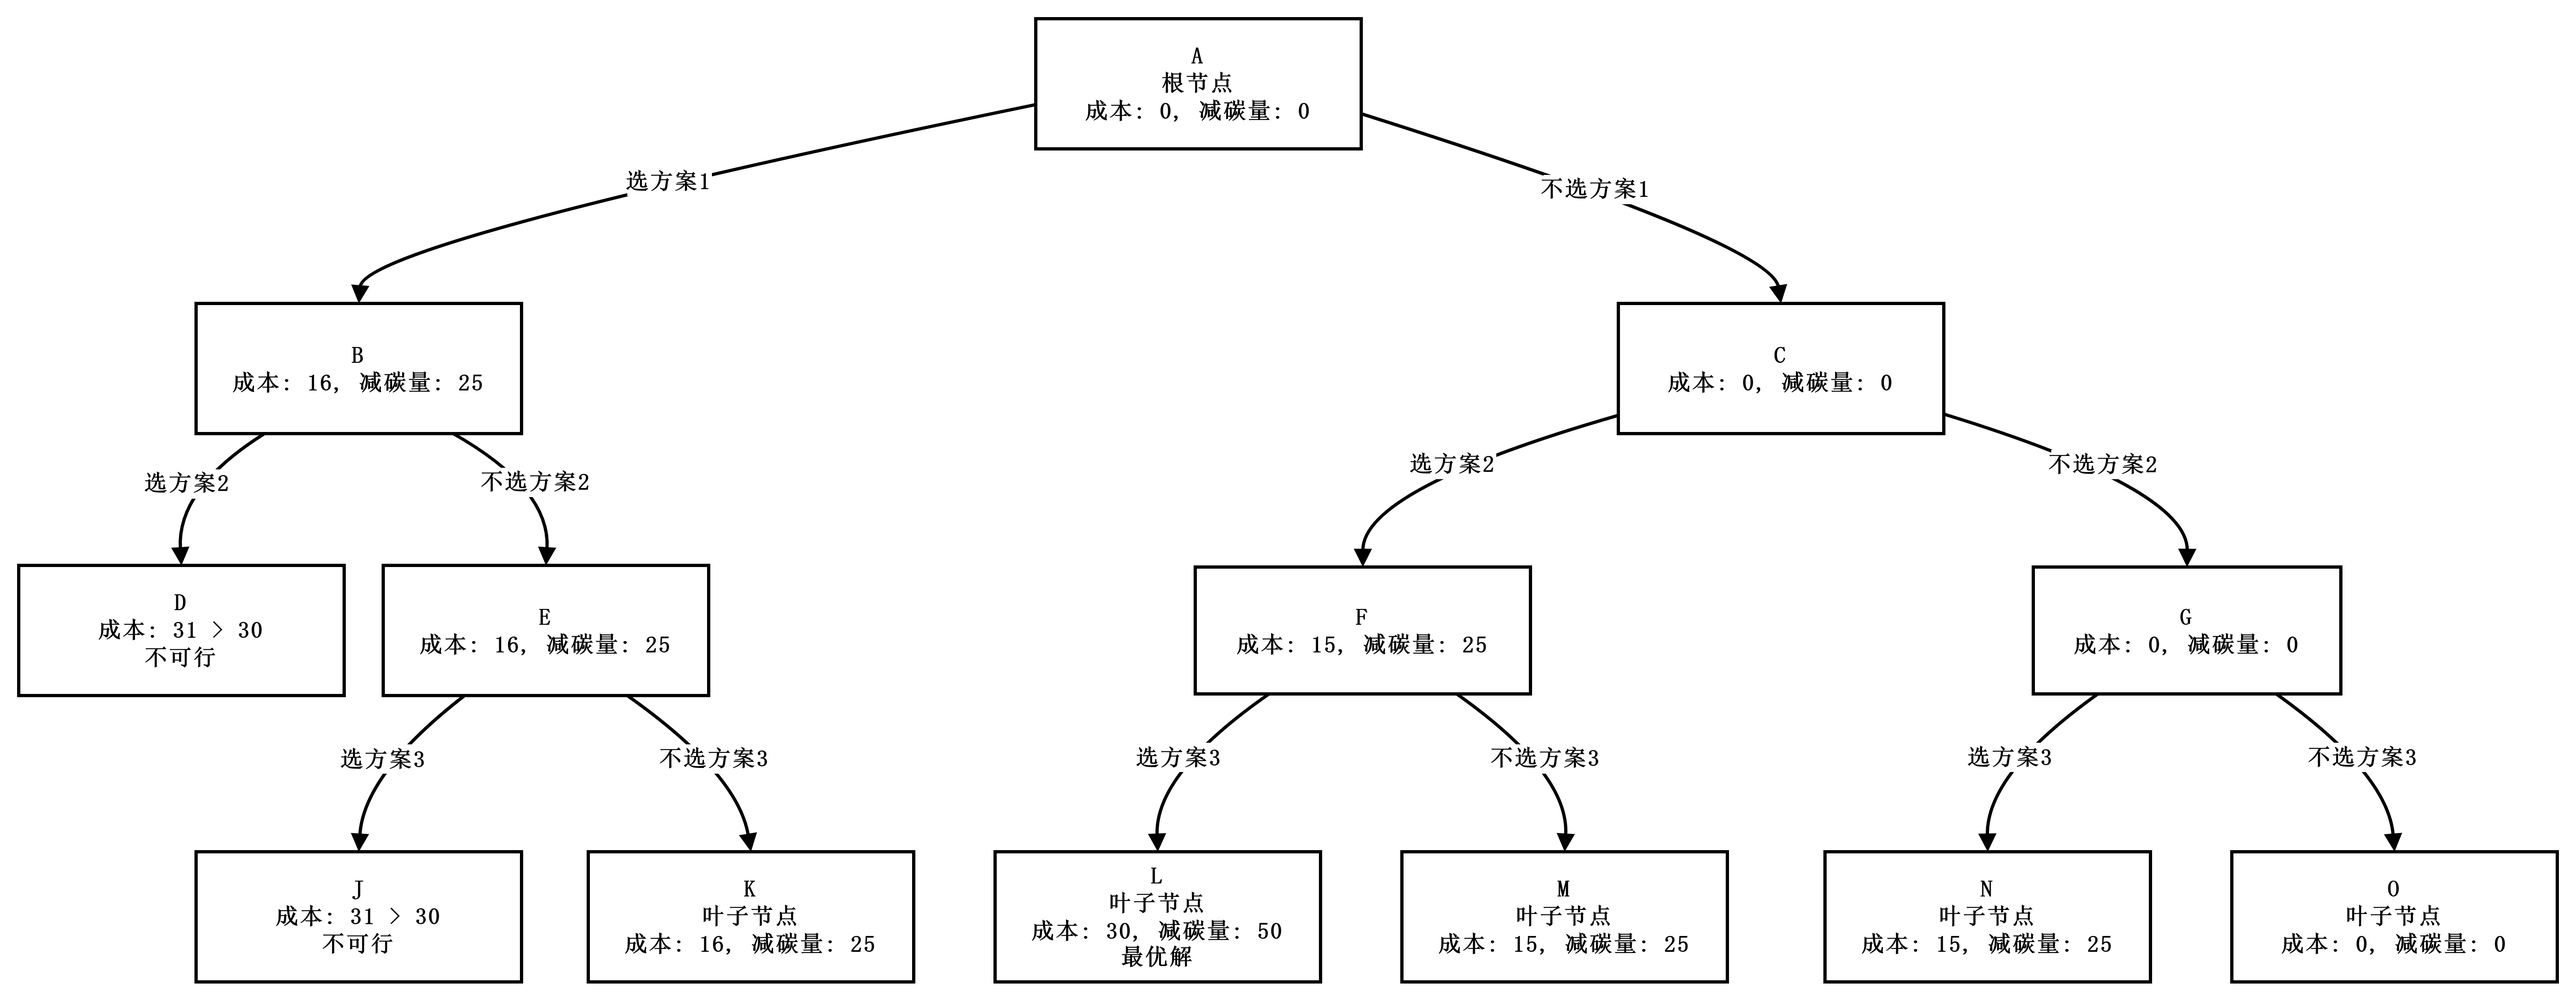
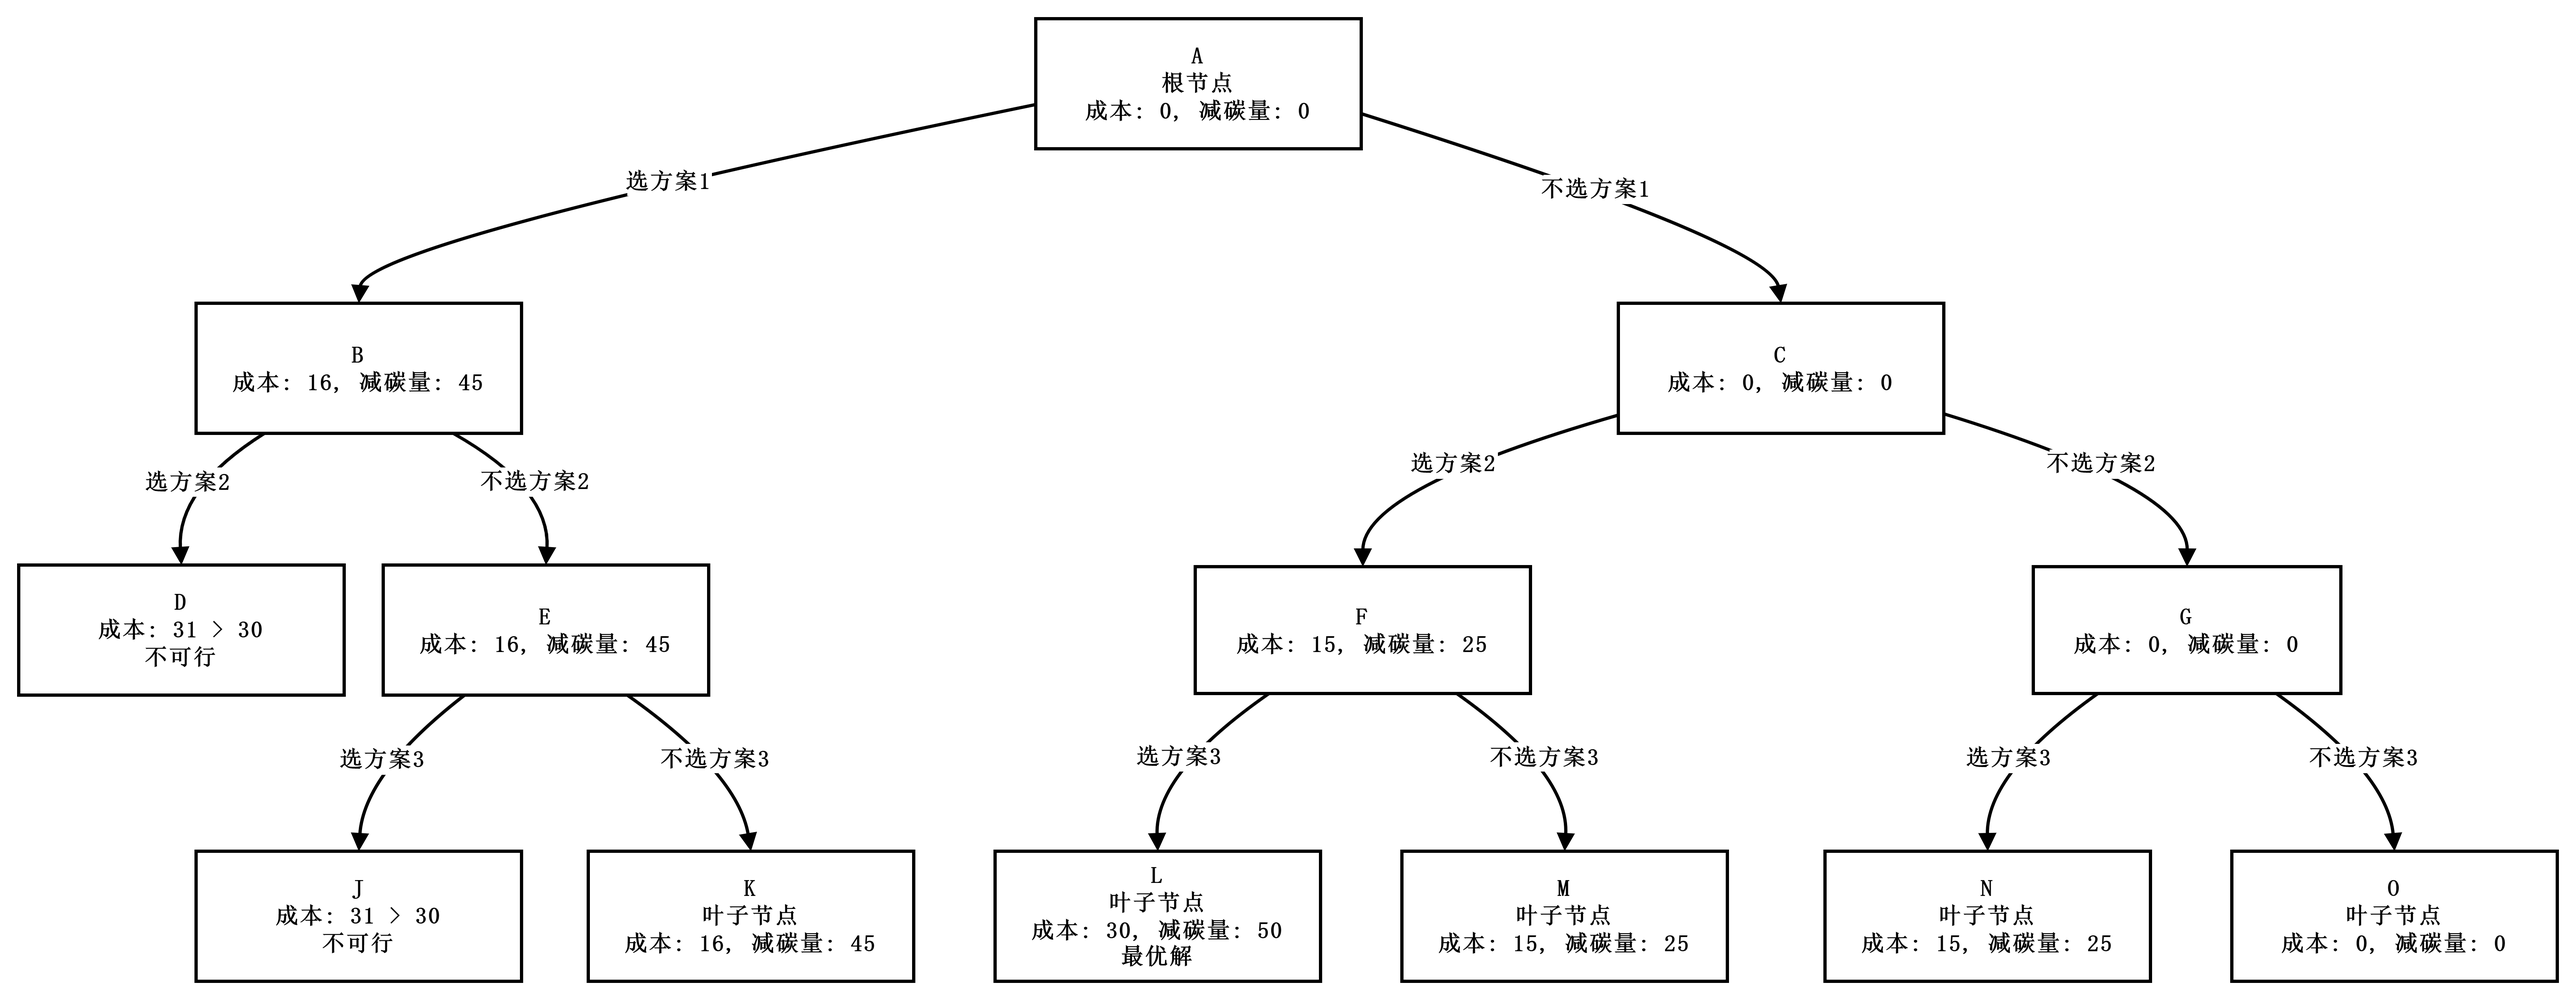
docs: 更新算法分析与设计考试笔记

diff --git a/docs/Exam/XASYU/Second/2025-07-01/00.算法分析与设计.md b/docs/Exam/XASYU/Second/2025-07-01/00.算法分析与设计.md
@@ -24,25 +24,25 @@
 
 ### 1.1
 
-> 分支限界与回溯法的区别？p.127
+> 分支限界法和回溯法的区别及相同点？
 
 求解目标不同：
 
-- 回溯法求所有解
-- 分支限界只能求一个解
+- 回溯法的求解目标是找出解空间树中满足约束条件的所有解
+- 分支限界法的求解目标是找出满足约束条件的一个解，或是在满足约束条件的解中找出在某种意义下的最优解
 
 搜索方式不同：
 
-- 回溯法使用深度优先
-- 分支限界使用广度优先或最小耗费优先（优先队列式分支限界）
+- 回溯法以深度优先的方式搜索解空间树
+- 分支限界法以广度优先或以最小耗费优先的方式搜索解空间树
 
 相同点：
 
-- 都要在解分支树上进行搜索，构造解空间树的过程是一样的
+- 均基于解空间树搜索；采用剪枝优化搜索效率。
 
 ### 1.2
 
-> 数学建模。p.128
+> 数学建模。
 
 1. **问题转化**：将环保投资问题建模为 0-1 背包问题模型。
 2. **变量定义**：$x_i \in \{0,1\}$ 表示是否投资第 $i$ 个方案（1=投资，0=不投资）。
@@ -54,12 +54,16 @@
 
 1. **构造解空间树**：三层二叉树（左分支=选方案，右分支=不选方案）。
 2. **搜索过程**：
-    - 扩展根节点 A → 生成 B（选方案 1，成本 16≤30）、C（不选方案 1，成本 0）。活结点表：[B, C]。
-    - 扩展 B → 生成 D（选方案 2，成本 16+15=31>30，不可行）、E（不选方案 2，成本 16）。活结点表：[C, E]。
-    - 扩展 C → 生成 F（选方案 2，成本 15）、G（不选方案 2，成本 0）。活结点表：[E, F, G]。
-    - 扩展 E → 生成 J（选方案 3，成本 16+15=31>30，不可行）、K（不选方案 3，成本 16）。K 为叶子节点，减碳量=45。活结点表：[F, G]。
-    - 扩展 F → 生成 L（选方案 3，成本 15+15=30）、M（不选方案 3，成本 15）。L 为叶子节点，减碳量=25+25=50。活结点表：[G, M]。
-    - 扩展 G → 生成 N（选方案 3，成本 15）、O（不选方案 3，成本 0）。N 减碳量=25，O 减碳量=0。
+
+    ```txt
+    [A] B, C        => B, C
+    [B, C] D, E     => E
+    [C, E] F, G     => F, G
+    [E, F, G] J, K  => K(45)[1,0,0]
+    [F, G] L, M     => L(50)[0,1,1], M(25)[0,1,0]
+    [G] N, O        => N(25)[0,0,1], O(0)[0,0,0]
+    ```
+
 3. **最优值（最大减碳量）**：50 万吨
 4. **最优解（最优方案组合）**：选方案 2 和方案 3，即 $x = [0,1,1]$
 
@@ -139,36 +143,22 @@ private static double Bound(int i) {
 
 > 贪心算法的原理是什么？
 
-贪心算法是一种通过每一步做出局部最优选择，以期望获得全局最优解的算法策略。其基本原理如下：
-
-1. **贪心选择性质**：算法在每一步中做出当前状态下看起来最优的选择，而不考虑全局。每次都选择当前最优解，期望最终能导致全局最优解。
-
-2. **最优子结构**：问题的最优解包含其子问题的最优解。这意味着每一步做出的局部最优选择最终能构成全局最优解。
-
-3. **无后效性**：一旦做出选择，不再回溯。贪心算法做出决策后不会重新考虑之前的选择。
-
-4. **迭代决策过程**：
-    - 将问题分解为若干个子问题
-    - 对每个子问题做出局部最优选择
-    - 将所有局部最优选择组合，形成最终解
-
-5. **构造方式**：通常通过某种度量标准（如价值、权重、距离等）对候选解进行排序，然后按此顺序选择满足约束条件的元素。
-
-贪心算法适用于能通过局部最优选择达到全局最优解的问题，但并非所有问题都适合使用贪心策略。与动态规划相比，贪心算法更高效（时间复杂度通常较低），但求解范围更窄。
+- 贪心算法是一种通过局部最优选择来构建全局最优解的算法。
+- 它依赖于贪心选择性质和最优子结构，即每一步都选择当前最优，期望最终得到全局最优解，且无需回溯。
 
 > 哈夫曼编码原理是什么？
 
-1. **变长编码：** 哈夫曼编码是一种变长编码方式。出现频率高的字符分配较短的编码，出现频率低的字符分配较长的编码。
+1. **变长编码**：哈夫曼编码是一种变长编码方式。出现频率高的字符分配较短的编码，出现频率低的字符分配较长的编码。
 
-2. **频率排序：** 首先将字符按照出现频率从小到大排序。
+2. **频率排序**：首先将字符按照出现频率从小到大排序。
 
-3. **构造哈夫曼树：**
+3. **构造哈夫曼树**：
     - 每次选取频率最小的两个节点。
     - 创建一个父节点，其频率等于这两个子节点频率之和。
     - 将该父节点按照频率大小重新插入到排序好的节点队列中。
     - 重复以上步骤，直到队列中只剩下一个节点，这个节点就是哈夫曼树的根节点。
 
-4. **编码：** 在哈夫曼树上，从根节点开始，对左分支编码为“0”，对右分支编码为“1”，直到到达叶子节点（代表一个字符），路径上的 0 和 1 组成的字符串就是该字符的哈夫曼编码。
+4. **编码**：在哈夫曼树上，左分支编 `0` 右分支编 `1`，直到到达叶子节点，路径上的 `0` 和 `1` 组成的字符串就是该字符的哈夫曼编码。
 
 > 定长编码的原理是什么？
 
@@ -185,23 +175,27 @@ private static double Bound(int i) {
 
 > 构造哈夫曼树及编码，写出具体的构造过程，写出每种垃圾名称的具体编码。
 
-1. **构造过程**：
-    - 初始节点：其他 (10%)、有害 (15%)、厨余 (30%)、可回收 (45%)。
-    - 合并其他 (10%) + 有害 (15%) → 节点 A(25%)。
-    - 合并 A(25%) + 厨余 (30%) → 节点 B(55%)。
-    - 合并 B(55%) + 可回收 (45%) → 根节点 (100%)。
+垃圾类型由小到大排序：
 
-    ![](./assets/010.png)
+| 4        | 3        | 2        | 1          |
+| -------- | -------- | -------- | ---------- |
+| 其他垃圾 | 有害垃圾 | 厨余垃圾 | 可回收垃圾 |
+| 10%      | 15%      | 30%      | 45%        |
 
-2. **编码结果**：
-    - 可回收物：`0`
-    - 厨余垃圾：`11`
-    - 有害垃圾：`101`
-    - 其他垃圾：`100`
+构造哈夫曼树：
+
+![](./assets/010.png)
+
+根据哈夫曼树可得：
+
+- 可回收物：`0`
+- 厨余垃圾：`11`
+- 有害垃圾：`101`
+- 其他垃圾：`100`
 
 ### 2.3
 
-**编码长度与节省比例计算**
+> 编码长度与节省比例计算
 
 1. **定长编码**：
     - 4 种类型需 2 位二进制（$2^2=4$），总码长 = $2 \times 10000 = 20000$ 位（假设处理 1 万次）。
@@ -229,55 +223,43 @@ private static double Bound(int i) {
 
 ### 3.1
 
-> 动态规划的原理是什么？p.41
+> 动态规划求解最短路径步骤
 
-1. 找出最优解的性质并描绘其结构特征（建立状态转移方程）。
-2. 递归的定义最优值，用递归的思想填表。
-3. 以自底向上的方式去计算最优值，构造最优解。
+1. 找出最优解的性质，并描绘其结构特征。
+2. 递归的定义最优值。
+3. 以自底向上的方式计算出最优值，构造最优解。
+
+### 3.2
 
 > 建立状态转移方程
 
 1. **定义**：
-    - $f[s]$：从节点 1 到节点 $s$ 的最短距离
-    - $p[s]$：节点 $s$ 的前驱节点
     - $s$：当前节点
     - $x$：节点 $s$ 的前驱节点
     - $c(x, s)$：$x$ 到 $s$ 的边
 2. **转移方程分段函数**：
-
     $$
-    f[s] =
+    f(s) =
     \begin{cases}
     0 & \text{若 } s = 1 & \text{(起点)} \\
-    \min \big\{ f[x] + c(x, s) \big\} & \text{若 } s \neq 1 & \text{(其他节点)}
+    \min \big\{ f(x) + c(x, s) \big\} & \text{若 } s \neq 1 & \text{(其他节点)}
     \end{cases}
     $$
 
-### 3.2
+> 填表计算最优值
 
-**填表计算最优值**
+- $f[i]$：从节点 1 到节点 $i$ 的最短距离
+- $p[i]$：节点 $i$ 的前驱节点
 
-| 节点 | $f[s]$ | $p[s]$ | 计算过程                                         |
-| ---- | ---------- | ---------- | ------------------------------------------------ |
-| 1    | 0          | -          | 边界                                             |
-| 2    | 4          | 1          | $f[1] + 4$                                   |
-| 3    | 2          | 1          | $f[1] + 2$                                   |
-| 4    | 3          | 1          | $f[1] + 3$                                   |
-| 5    | 8          | 3          | $\min(f[2]+10=14, f[3]+6=8) \to 8$             |
-| 6    | 6          | 4          | $\min(f[2]+9=13, f[3]+7=9, f[4]+3=6) \to 6$    |
-| 7    | 11         | 4          | $\min(f[3]+10=12, f[4]+8=11) \to 11$           |
-| 8    | 12         | 7          | $\min(f[5]+4=12, f[6]+9=15, f[7]+5=16) \to 12$ |
-| 9    | 12         | 6          | $\min(f[5]+8=16, f[6]+6=12, f[7]+4=15) \to 12$ |
-| 10   | 16         | 9          | $\min(f[8]+8=20, f[9]+4=16) \to 16$            |
+|      | 1   | 2   | 3   | 4   | 5   | 6   | 7   | 8   | 9   | 10  |
+| ---- | --- | --- | --- | --- | --- | --- | --- | --- | --- | --- |
+| f[i] | 0   | 4   | 2   | 3   | 8   | 6   | 11  | 12  | 12  | 16  |
+| p[i] | 0   | 1   | 1   | 1   | 3   | 4   | 4   | 5   | 6   | 9   |
 
-### 3.3
+> 最短路径长度及最优路线
 
-**最优解构造**
-
-1. **最短路径长度**：16。
-2. **路径**：
-    - $10 \xleftarrow{p[10]=9} 9 \xleftarrow{p[9]=6} 6 \xleftarrow{p[6]=4} 4 \xleftarrow{p[4]=1} 1$
-    - 即 $1 \to 4 \to 6 \to 9 \to 10$。
+1. **最短路径长度**：$f(10) = 16$。
+2. **路径**：$1 \to 4 \to 6 \to 9 \to 10$。
 
 ## 第四大题
 
@@ -293,30 +275,37 @@ private static double Bound(int i) {
 
 ### 4.1
 
-> 普通乘法复杂度
+> 分治法
 
-1. **算法**：每位相乘，复杂度 $O(n^2)$。
+将 $X，Y$ 拆分为两半（$k = n/2 = 4$ 位）：
 
-> 分治法原理及优化
+$A=1234$，$B=5678$，$C=5678$，$D=4321$
 
-1. **分治步骤**：
-    - 将 $X，Y$ 拆分为两半（$k = n/2 = 4$ 位）：
-      - $X = A \times 10^k + B$（$A=1234$，$B=5678$)
-      - $Y = C \times 10^k + D$（$C=5678$，$D=4321$)
-    - 原始计算：$XY = AC \cdot 10^{2k} + (AD + BC) \cdot 10^k + BD$（需 4 次乘法）。
-2. **优化（减少乘法次数）**：
-    - 关键点：
-        $$
-        \begin{align*}
-        (AD + BC) &= (AC + AD + BC + BD) - AC - BD \\
-        &= A(C+D) + B(C+D) - AC - BD \\
-        &= (A+B)(C+D) - AC - BD
-        \end{align*}
-        $$
-    - 公式：$XY = AC \cdot 10^{2k} + [(A+B)(C+D) - AC - BD] \cdot 10^k + BD$
-    - 乘法次数：3 次（计算 $AC$，$BD$，$(A+B)(C+D)$)。
+$X = A \times 10^k + B$，$Y = C \times 10^k + D$
+
+$XY = AC \cdot 10^{2k} + (AD + BC) \cdot 10^k + BD$
+
+乘法次数：4 次
 
 ### 4.2
+
+> 算法优化
+
+优化关键点：
+
+$$
+\begin{align*}
+(AD + BC) &= (AC + AD + BC + BD) - AC - BD \\
+&= A(C+D) + B(C+D) - AC - BD \\
+&= (A+B)(C+D) - AC - BD
+\end{align*}
+$$
+
+$XY = AC \cdot 10^{2k} + [(A+B)(C+D) - AC - BD] \cdot 10^k + BD$
+
+乘法次数：$AC$、$BD$、$(A+B)(C+D)$
+
+### 4.3
 
 > 复杂度对比
 
